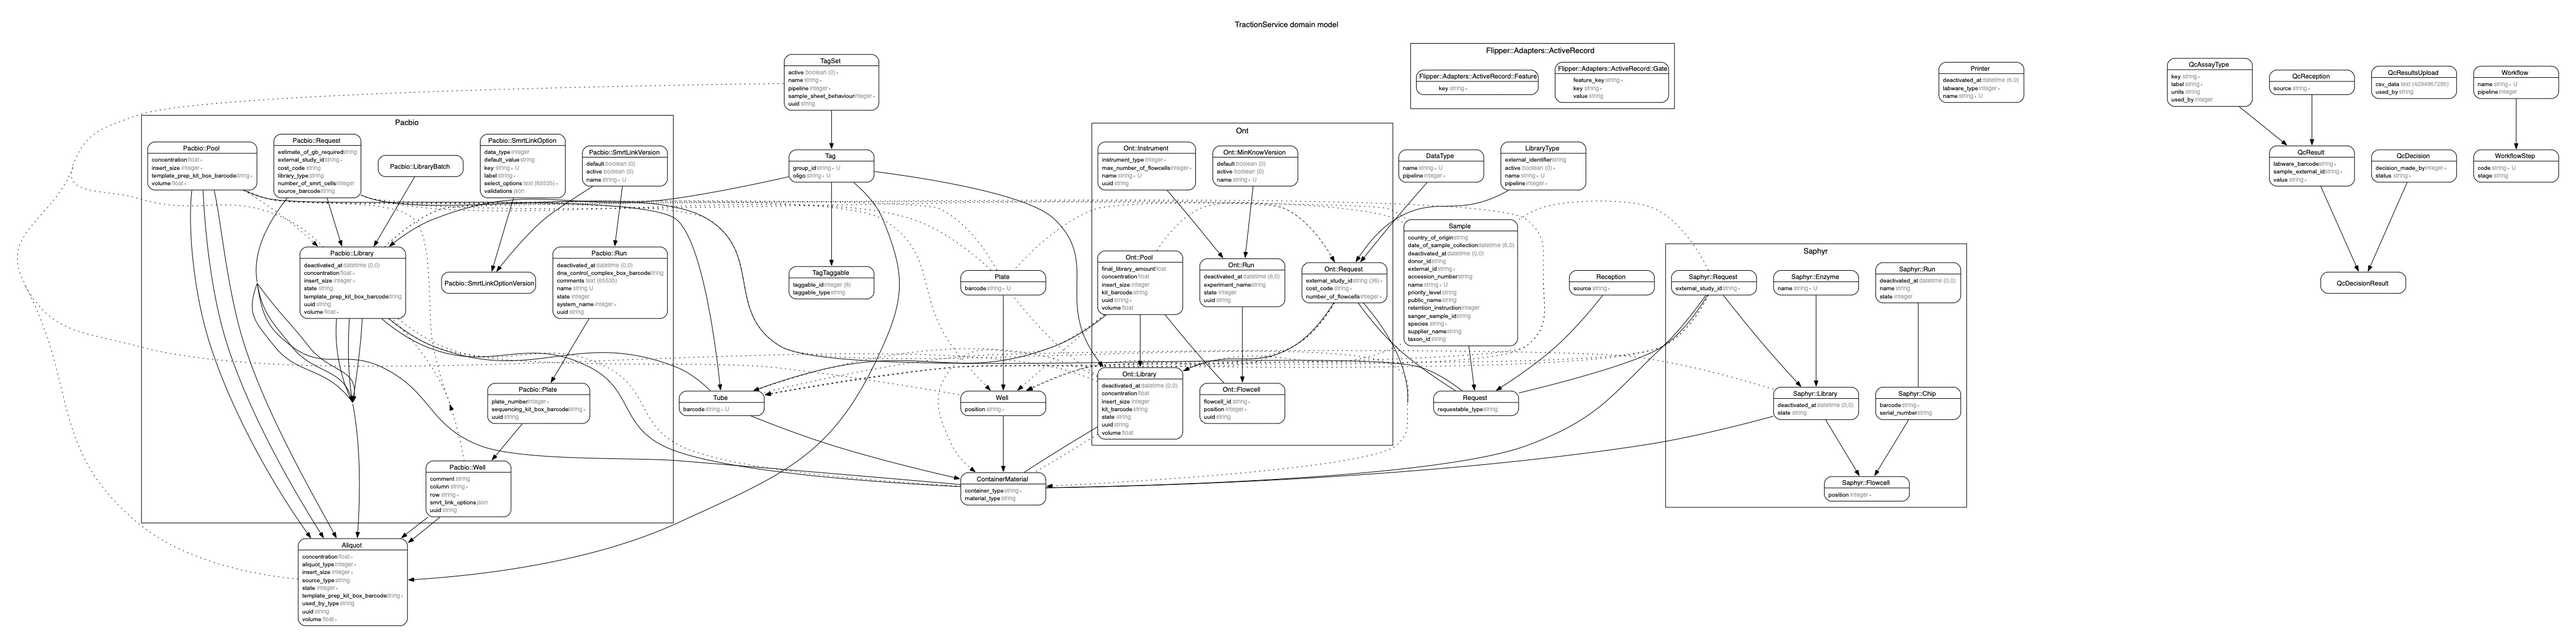
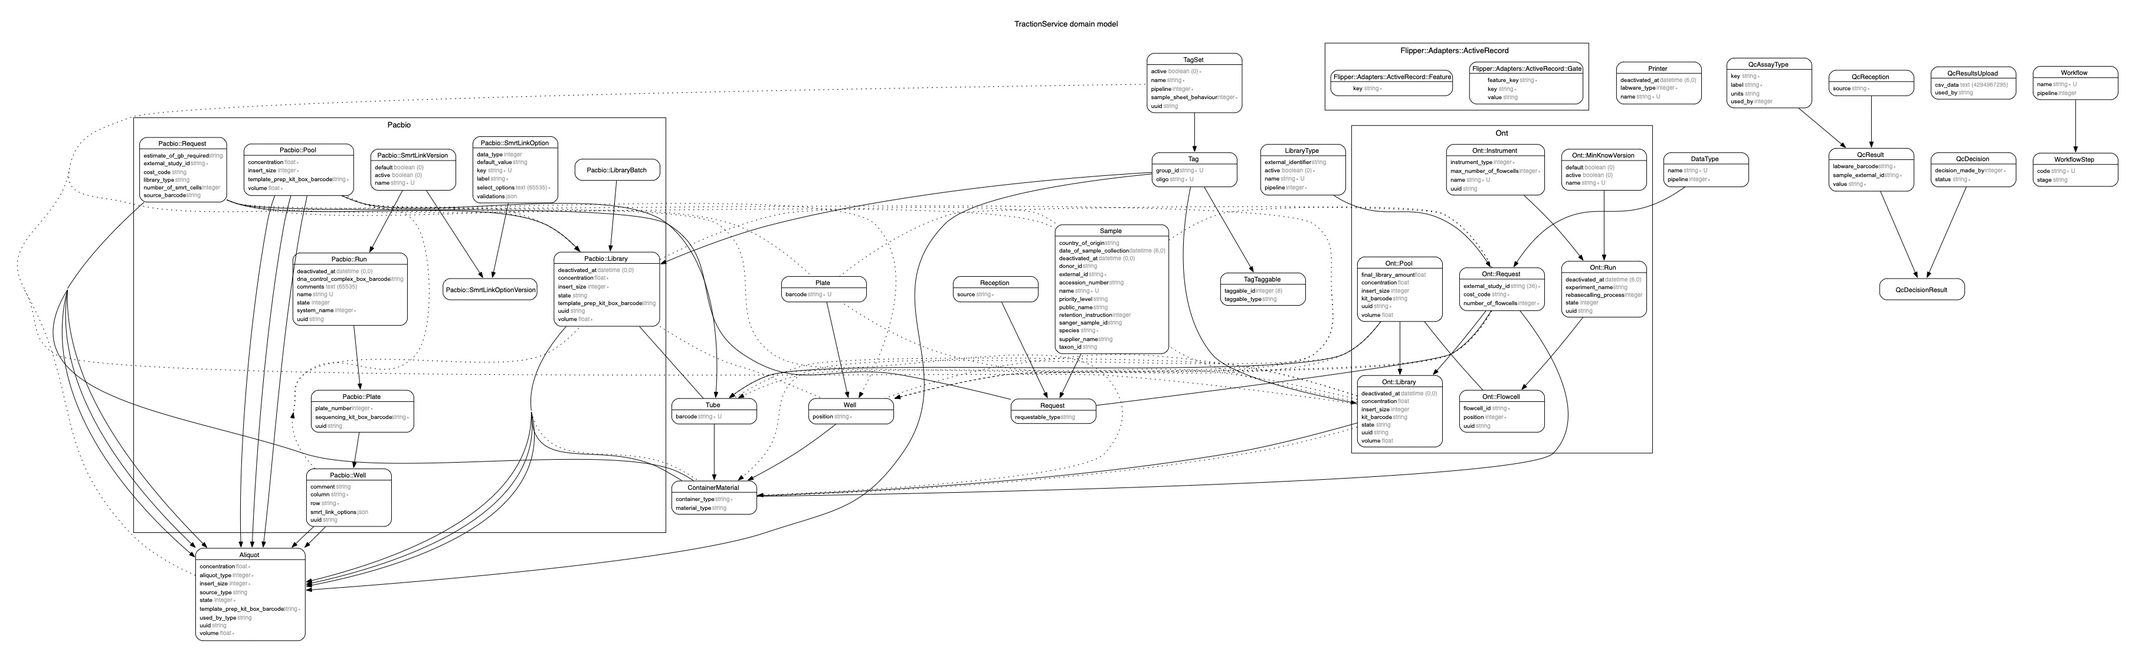
Add rebasecalling_process attribute to Ont::Run model and update API documentation

diff --git a/app/resources/v1/ont/run_resource.rb b/app/resources/v1/ont/run_resource.rb
@@ -2,13 +2,70 @@
 
 module V1
   module Ont
-    # @todo This documentation does not yet include a detailed description of what this resource represents.
-    # @todo This documentation does not yet include detailed descriptions for relationships, attributes and filters.
-    # @todo This documentation does not yet include any example usage of the API via cURL or similar.
+    # This resource represents a sequencing run for the Oxford Nanopore Technologies (ONT) platform.
+    # It provides a JSON:API representation of {Ont::Run}.
+    #
+    # Relationships:
+    # - instrument: The instrument used for the run.
+    # - flowcells: The flowcells used in the run.
+    #
+    # Attributes:
+    # - experiment_name: The name of the experiment.
+    # - state: The state of the run.
+    # - rebasecalling_process: The rebasecalling process of the run.
+    # - created_at: The creation timestamp of the run.
+    # - ont_instrument_id: The ID of the associated instrument.
+    # - flowcell_attributes: The attributes of the flowcells in the run.
+    #
+    # Filters:
+    # - experiment_name: Filter runs by experiment name.
+    # - state: Filter runs by state.
+    #
+    # Primary relationships:
+    # instrument {V1::Ont::InstrumentResource}
+    # flowcells {V1::Ont::FlowcellResource}
+    #
+    # Relationship trees:
+    # - flowcells.pool
+    #
+    # @example
+    # curl -X GET "http://yourdomain.com/v1/ont/runs" -H "accept: application/vnd.api+json"
+    # curl -X GET "http://yourdomain.com/v1/ont/runs/1?include=flowcells.pool" -H "accept:
+    # application/vnd.api+json"
+    # curl -X POST "http://yourdomain.com/v1/ont/runs" \
+    # -H "accept: application/vnd.api+json" \
+    # -H "Content-Type: application/vnd.api+json" \
+    # -d '{
+    #   "data": {
+    #     "type": "runs",
+    #     "attributes": {
+    #       "experiment_name": "Experiment 1",
+    #       "state": "pending",
+    #       "rebasecalling_process": "process_1",
+    #       "ont_instrument_id": 1,
+    #       "flowcell_attributes": [
+    #         {
+    #           "id": 1,
+    #           "flowcell_id": "flowcell_1",
+    #           "position": "A1",
+    #           "ont_pool_id": 1
+    #         },
+    #         {
+    #           "id": 2,
+    #           "flowcell_id": "flowcell_2",
+    #           "position": "B1",
+    #           "ont_pool_id": 2
+    #         }
+    #       ]
+    #     }
+    #   }
+    # }'
+    # curl -X PATCH "http://yourdomain.com/v1/ont/runs/1" \
+    # -H "accept: application/vnd.api+json" \
+    # -H "Content-Type: application/vnd.api+json" \
+    # -d '{"data": {"type": "runs", "id": "1", "attributes": {"state": "completed"}}}'
     #
     # @note Access this resource via the `/v1/ont/runs/` endpoint.
-    #
-    # Provides a JSON:API representation of {Ont::Run}.
     #
     # For more information about JSON:API see the [JSON:API Specifications](https://jsonapi.org/format/)
     # or look at the [JSONAPI::Resources](http://jsonapi-resources.com/) package
@@ -20,13 +77,16 @@ module V1
       #   @return [String] the name of the experiment
       # @!attribute [rw] state
       #   @return [String] the state of the run
+      # @!attribute [rw] rebasecalling_process
+      #   @return [String] the rebasecalling process of the run
       # @!attribute [rw] created_at
       #   @return [String] the creation timestamp of the run
       # @!attribute [rw] ont_instrument_id
       #   @return [Integer] the ID of the associated instrument
       # @!attribute [rw] flowcell_attributes
       #   @return [Array<Hash>] the attributes of the flowcells in the run
-      attributes :experiment_name, :state, :created_at, :ont_instrument_id, :flowcell_attributes
+      attributes :experiment_name, :state, :rebasecalling_process, :created_at, :ont_instrument_id,
+                 :flowcell_attributes
 
       # Run has an instrument. The foreign key is on this side.
       has_one :instrument, foreign_key: 'ont_instrument_id'

diff --git a/spec/models/ont/run_spec.rb b/spec/models/ont/run_spec.rb
@@ -32,6 +32,19 @@ RSpec.describe Ont::Run, :ont do
       expect(run.has_attribute?(:uuid)).to be true
       expect(run.uuid).to be_present
     end
+
+    describe 'rebasecalling_process' do
+      it 'is valid without a rebasecalling process' do
+        expect(build(:ont_run, rebasecalling_process: nil)).to be_valid
+      end
+
+      it 'rebasecalling process limited to a set of values' do
+        expect(build(:ont_run, rebasecalling_process: '5mC + 5hmC CpG-context')).to be_valid
+        expect(build(:ont_run, rebasecalling_process: '5mC + 5hmC all-context')).to be_valid
+        expect(build(:ont_run, rebasecalling_process: '6mA all-context')).to be_valid
+        expect(build(:ont_run, rebasecalling_process: 'guppy')).not_to be_valid
+      end
+    end
   end
 
   context 'run' do

diff --git a/db/schema.rb b/db/schema.rb
@@ -10,7 +10,7 @@
 #
 # It's strongly recommended that you check this file into your version control system.
 
-ActiveRecord::Schema[7.2].define(version: 2024_11_06_153044) do
+ActiveRecord::Schema[7.2].define(version: 2025_02_21_134136) do
   create_table "aliquots", charset: "utf8mb3", force: :cascade do |t|
     t.float "volume"
     t.float "concentration"
@@ -173,6 +173,7 @@ ActiveRecord::Schema[7.2].define(version: 2024_11_06_153044) do
     t.datetime "created_at", null: false
     t.datetime "updated_at", null: false
     t.bigint "ont_min_know_version_id"
+    t.string "rebasecalling_process"
     t.index ["ont_instrument_id"], name: "index_ont_runs_on_ont_instrument_id"
     t.index ["ont_min_know_version_id"], name: "index_ont_runs_on_ont_min_know_version_id"
   end

diff --git a/app/models/ont/run.rb b/app/models/ont/run.rb
@@ -58,6 +58,15 @@ module Ont
     # expected when creating run and flowcells together.
     validate :flowcells, :flowcell_id_uniqueness
 
+    # The rebasecalling process is helpful to decide some of the settings required for
+    # modified base calling.
+    # It can be one of the following values: '5mC + 5hmC CpG-context',
+    # '5mC + 5hmC all-context', '6mA all-context'
+    validates :rebasecalling_process,
+              inclusion: { in: ['5mC + 5hmC CpG-context', '5mC + 5hmC all-context',
+                                '6mA all-context'] },
+              allow_nil: true
+
     # Check if positions are duplicated in the run.
     def position_uniqueness
       position_names = flowcells.collect(&:position_name)

diff --git a/spec/requests/v1/ont/runs_spec.rb b/spec/requests/v1/ont/runs_spec.rb
@@ -94,6 +94,7 @@ RSpec.describe 'RunsController' do
             attributes: {
               ont_instrument_id: instrument.id,
               state: 'pending',
+              rebasecalling_process: '5mC + 5hmC CpG-context',
               flowcell_attributes: [attr1, attr2]
             }
           }

diff --git a/db/migrate/20250221134136_add_rebasecalling_process_to_ont_run.rb b/db/migrate/20250221134136_add_rebasecalling_process_to_ont_run.rb
@@ -1,0 +1,5 @@
+class AddRebasecallingProcessToOntRun < ActiveRecord::Migration[7.2]
+  def change
+    add_column :ont_runs, :rebasecalling_process, :string
+  end
+end
